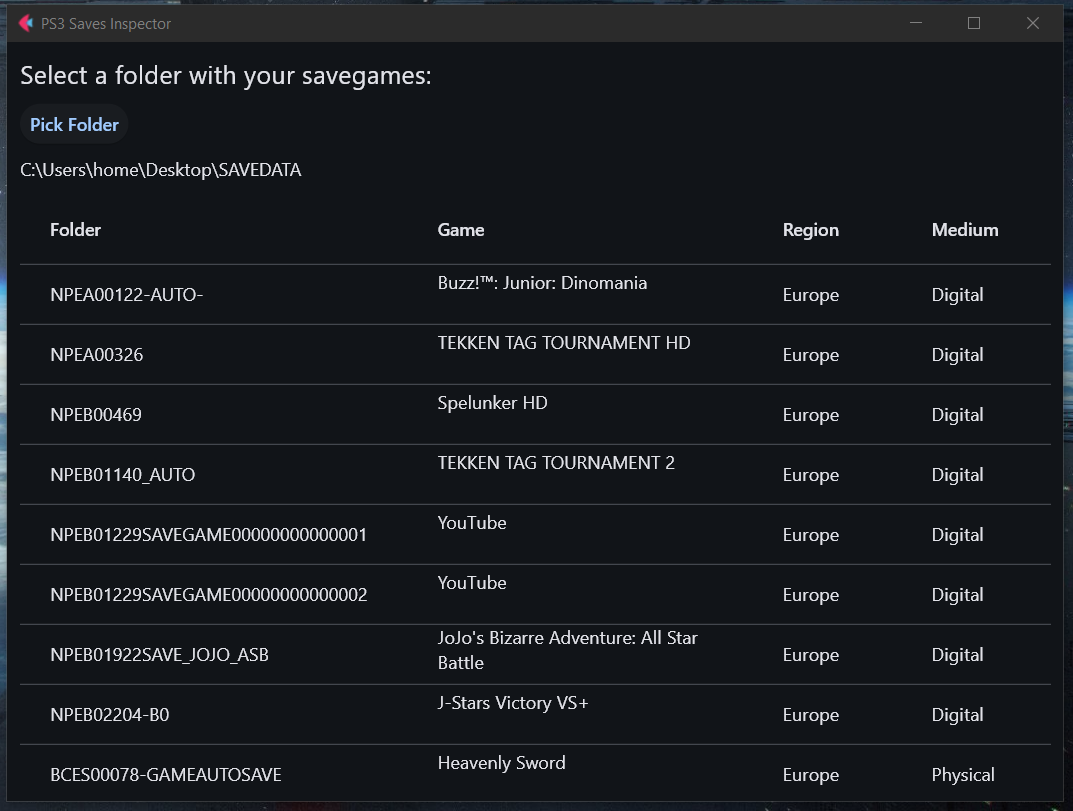
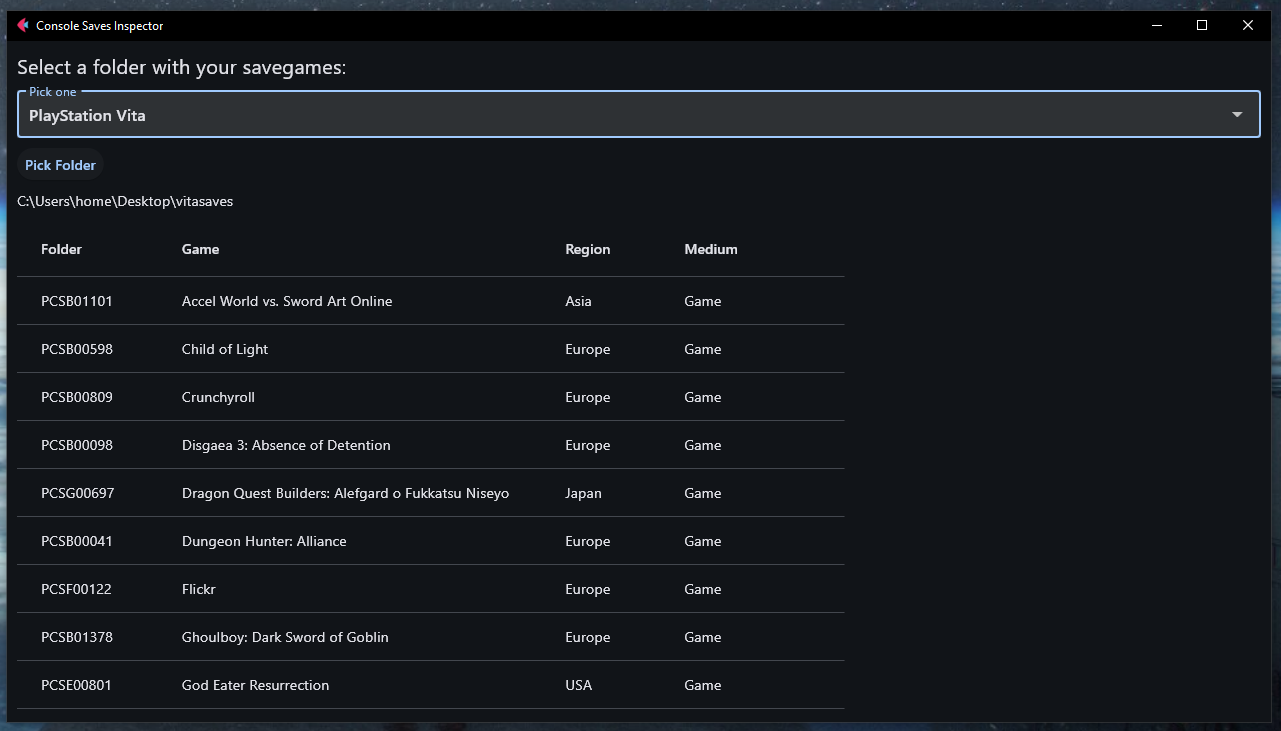
feat: added dropdown for consoles

diff --git a/app.py b/app.py
@@ -13,6 +13,27 @@ def main(page: ft.Page):
     top_text = ft.Text("Select a folder with your savegames:", size=20)
     bottom_text = ft.Text("Made by smoothini!", size=12)
 
+    def dropdown_changed(e):
+        selected = e.control.value
+        nonlocal console
+        if selected == "ps3":
+            console = ps3
+            print("PS3 context selected")
+        elif selected == "psv":
+            console = psv
+            print("PS Vita context selected")
+        page.update()
+
+    dropdown = ft.Dropdown(
+        label="Pick one",
+        options=[
+            ft.dropdown.Option("ps3", "PlayStation 3"),
+            ft.dropdown.Option("psv", "PlayStation Vita"),
+        ],
+        value="ps3",  # initial value
+        on_change=dropdown_changed
+    )
+
     # Table and data
     table_data = []
 
@@ -26,7 +47,6 @@ def main(page: ft.Page):
         rows=[],
     )
 
-    ids = console.get_titleids()
 
     def update_table():
         table.rows = [
@@ -49,10 +69,12 @@ def main(page: ft.Page):
 
     def load_folders(path):
         nonlocal table_data
+        ids = console.get_titleids()
         try:
             subfolders = [f for f in os.listdir(path) if os.path.isdir(os.path.join(path, f))]
             
             table_data.clear()
+            print(f"found {len(subfolders)} subfolders")
             for f in subfolders:
                 game, media, region = console.parse_title(f[:9], ids)
                 table_data.append((f, game, region, media))
@@ -78,6 +100,7 @@ def main(page: ft.Page):
     # Layout
     page.add(
         top_text,
+        dropdown,
         pick_button,
         selected_folder,
         table,

diff --git a/parsers/psv.py b/parsers/psv.py
@@ -28,8 +28,6 @@ def parse_title(title, ids):
 
     title_id = title
 
-    print(media.keys(), title[0:3])
-
     if title[0:3] in media.keys():
         media_type = media[title[0:3]]
         title_id = f"{title[0:4]}-{title[4:]}"
@@ -48,6 +46,6 @@ def parse_title(title, ids):
     else:
         region_type = "Unknown"
 
-
+    print(f"parsed {title} to {game} ({media_type}) [{region_type}]")
 
     return game, media_type, region_type

diff --git a/parsers/ps3.py b/parsers/ps3.py
@@ -37,4 +37,6 @@ def parse_title(title, ids):
     else:
         game = "Unknown"
 
+    print(f"parsed {title} to {game} ({media_type}) [{region_type}]")
+
     return game, media_type, region_type

diff --git a/README.md b/README.md
@@ -48,19 +48,20 @@ _NOTE: I've only tested on windows for now, but feel free to open an issue or ma
   ```bash
   pip install flet
   ```
-3. Run the app, while making sure the `titleid.txt` file is in the same location as the `app.py`
+3. Run the app, while making sure the `datafiles` folder  is in the same location as the `app.py`
   ```bash
   python app.py
   ```
-4. Select a folder where you have multiple PS3 save games
-5. ✨ Enjoy! ✨
+4. Select a console
+5. Select a folder where you have multiple save games for that console
+6. ✨ Enjoy! ✨
 
 ### Option 2: Standalone Executable
   - Coming soon
 
 ## 🙋♂ Contributing
 Pull requests and suggestions are welcome!
-If you'd like to add more Title IDs or improve the UI, feel free to fork and submit a PR.
+If you'd like to add more Title IDs or improve the UI, feel free to fork and submit a PR, frontend ain't really my thing.
 
 ## 📜 License
 
